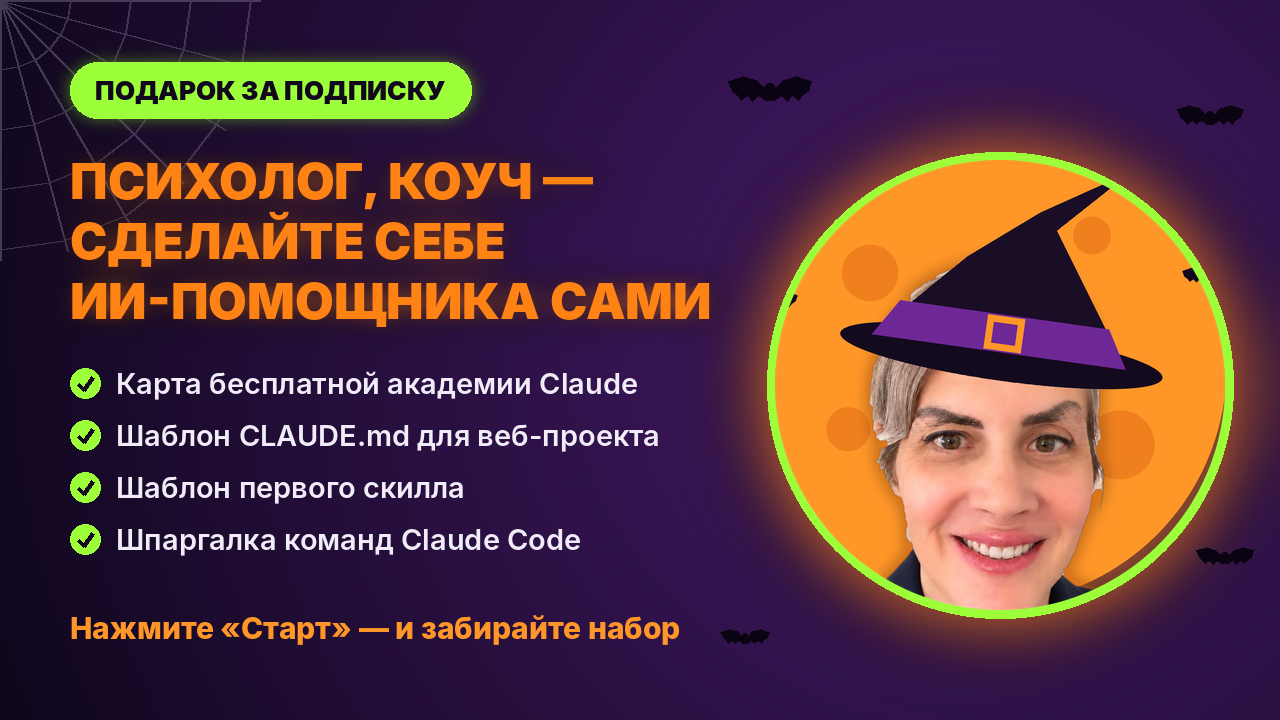
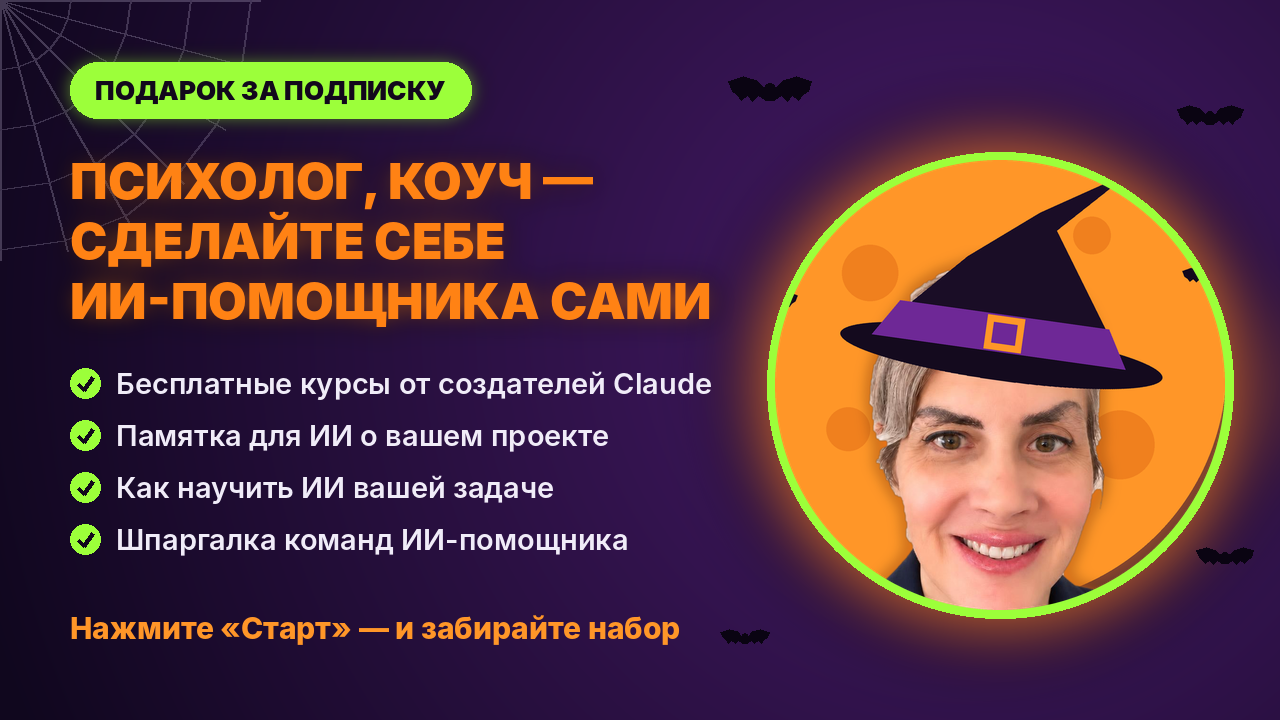
Состав набора простыми словами для психологов и коучей; новая картинка приветствия
Claude-Session: https://claude.ai/code/session_015zoKUdZLdmCKE6kc81hVxB

Changed region(s): [[0.0938, 0.5806, 0.5312, 0.7028], [0.0938, 0.5194, 0.5625, 0.55], [0.3125, 0.7333, 0.5, 0.7639]]

diff --git a/server/bot.ts b/server/bot.ts
@@ -33,11 +33,12 @@ export const preamble = () =>
 const welcome = () =>
   '🎃 <b>Привет! Это хэллоуинский бот Кристины.</b>\n\n' +
   '<b>Психолог, коуч — сделайте себе ИИ-помощника сами.</b>\nВ наборе:\n' +
-  '🗺 Карта бесплатных курсов Академии Claude\n' +
-  '📂 Шаблон CLAUDE.md для веб-проекта\n' +
-  '🧪 Шаблон первого скилла\n' +
-  '⚡ Шпаргалка команд Claude Code\n' +
-  '🎁 И бонус — 10 топовых скиллов для Claude Code\n\n' +
+  '🗺 Бесплатные курсы от создателей Claude: с чего начать и в каком порядке\n' +
+  '📂 Памятка для ИИ: чтобы он с первого раза понимал ваш сайт или бота\n' +
+  '🧪 Как один раз научить ИИ вашей задаче — и больше не объяснять\n' +
+  '⚡ Шпаргалка: главные команды, чтобы управлять ИИ-помощником\n' +
+  '🎁 И бонус — 10 топовых навыков для ИИ: тексты, маркетинг, проверка идей\n\n' +
+  'Всё — для Claude Code: так вы соберёте себе бота или сайт без программиста.\n\n' +
   `Раздача до ${deadlineStr()}. Жмите кнопку 👇`;
 
 const over = () =>
@@ -80,11 +81,11 @@ async function sendWelcome(d: Deps, chat: number, viaLink = false) {
     ? kb([[{text: '🎁 Забрать набор', url: `https://t.me/${cfg.botUsername()}?start=kit`}]])
     : kb([[{text: '🎁 Забрать набор', data: 'kit'}]]);
   try {
-    const cached = await d.users.getCache<string>('welcome-v2-psy');
+    const cached = await d.users.getCache<string>('welcome-v3-coach');
     if (cached) return await d.tg.call('sendPhoto', {chat_id: chat, photo: cached, caption: welcome(), parse_mode: 'HTML', reply_markup: markup});
     const r = await d.tg.upload('sendPhoto', {chat_id: String(chat), caption: welcome(), parse_mode: 'HTML', reply_markup: markup},
       [{name: 'photo', data: new Uint8Array(await readFile(asset('assets/welcome.png'))), filename: 'welcome.png', type: 'image/png'}]);
-    await d.users.setCache('welcome-v2-psy', r.photo.at(-1).file_id);
+    await d.users.setCache('welcome-v3-coach', r.photo.at(-1).file_id);
   } catch (e) {
     console.warn('welcome photo failed', e);
     await send(d, chat, welcome(), {reply_markup: markup});
@@ -195,7 +196,7 @@ async function sendInvoice(d: Deps, uid: number) {
   await d.tg.call('sendInvoice', {
     chat_id: uid,
     title: 'ИИ-помощник своими руками',
-    description: 'Карта курсов Академии Claude, шаблоны CLAUDE.md и первого скилла, шпаргалка Claude Code + бонус: 10 топовых скиллов. 5 PDF прямо в бот.',
+    description: 'Бесплатные курсы от создателей Claude, памятка и шаблон навыка для ИИ, шпаргалка команд + 10 топовых навыков. Чтобы собрать себе бота или сайт в Claude Code без программиста. 5 PDF прямо в бот.',
     payload: `kit:${uid}`,
     currency: 'XTR',
     prices: [{label: 'Набор', amount: cfg.priceStars()}],
